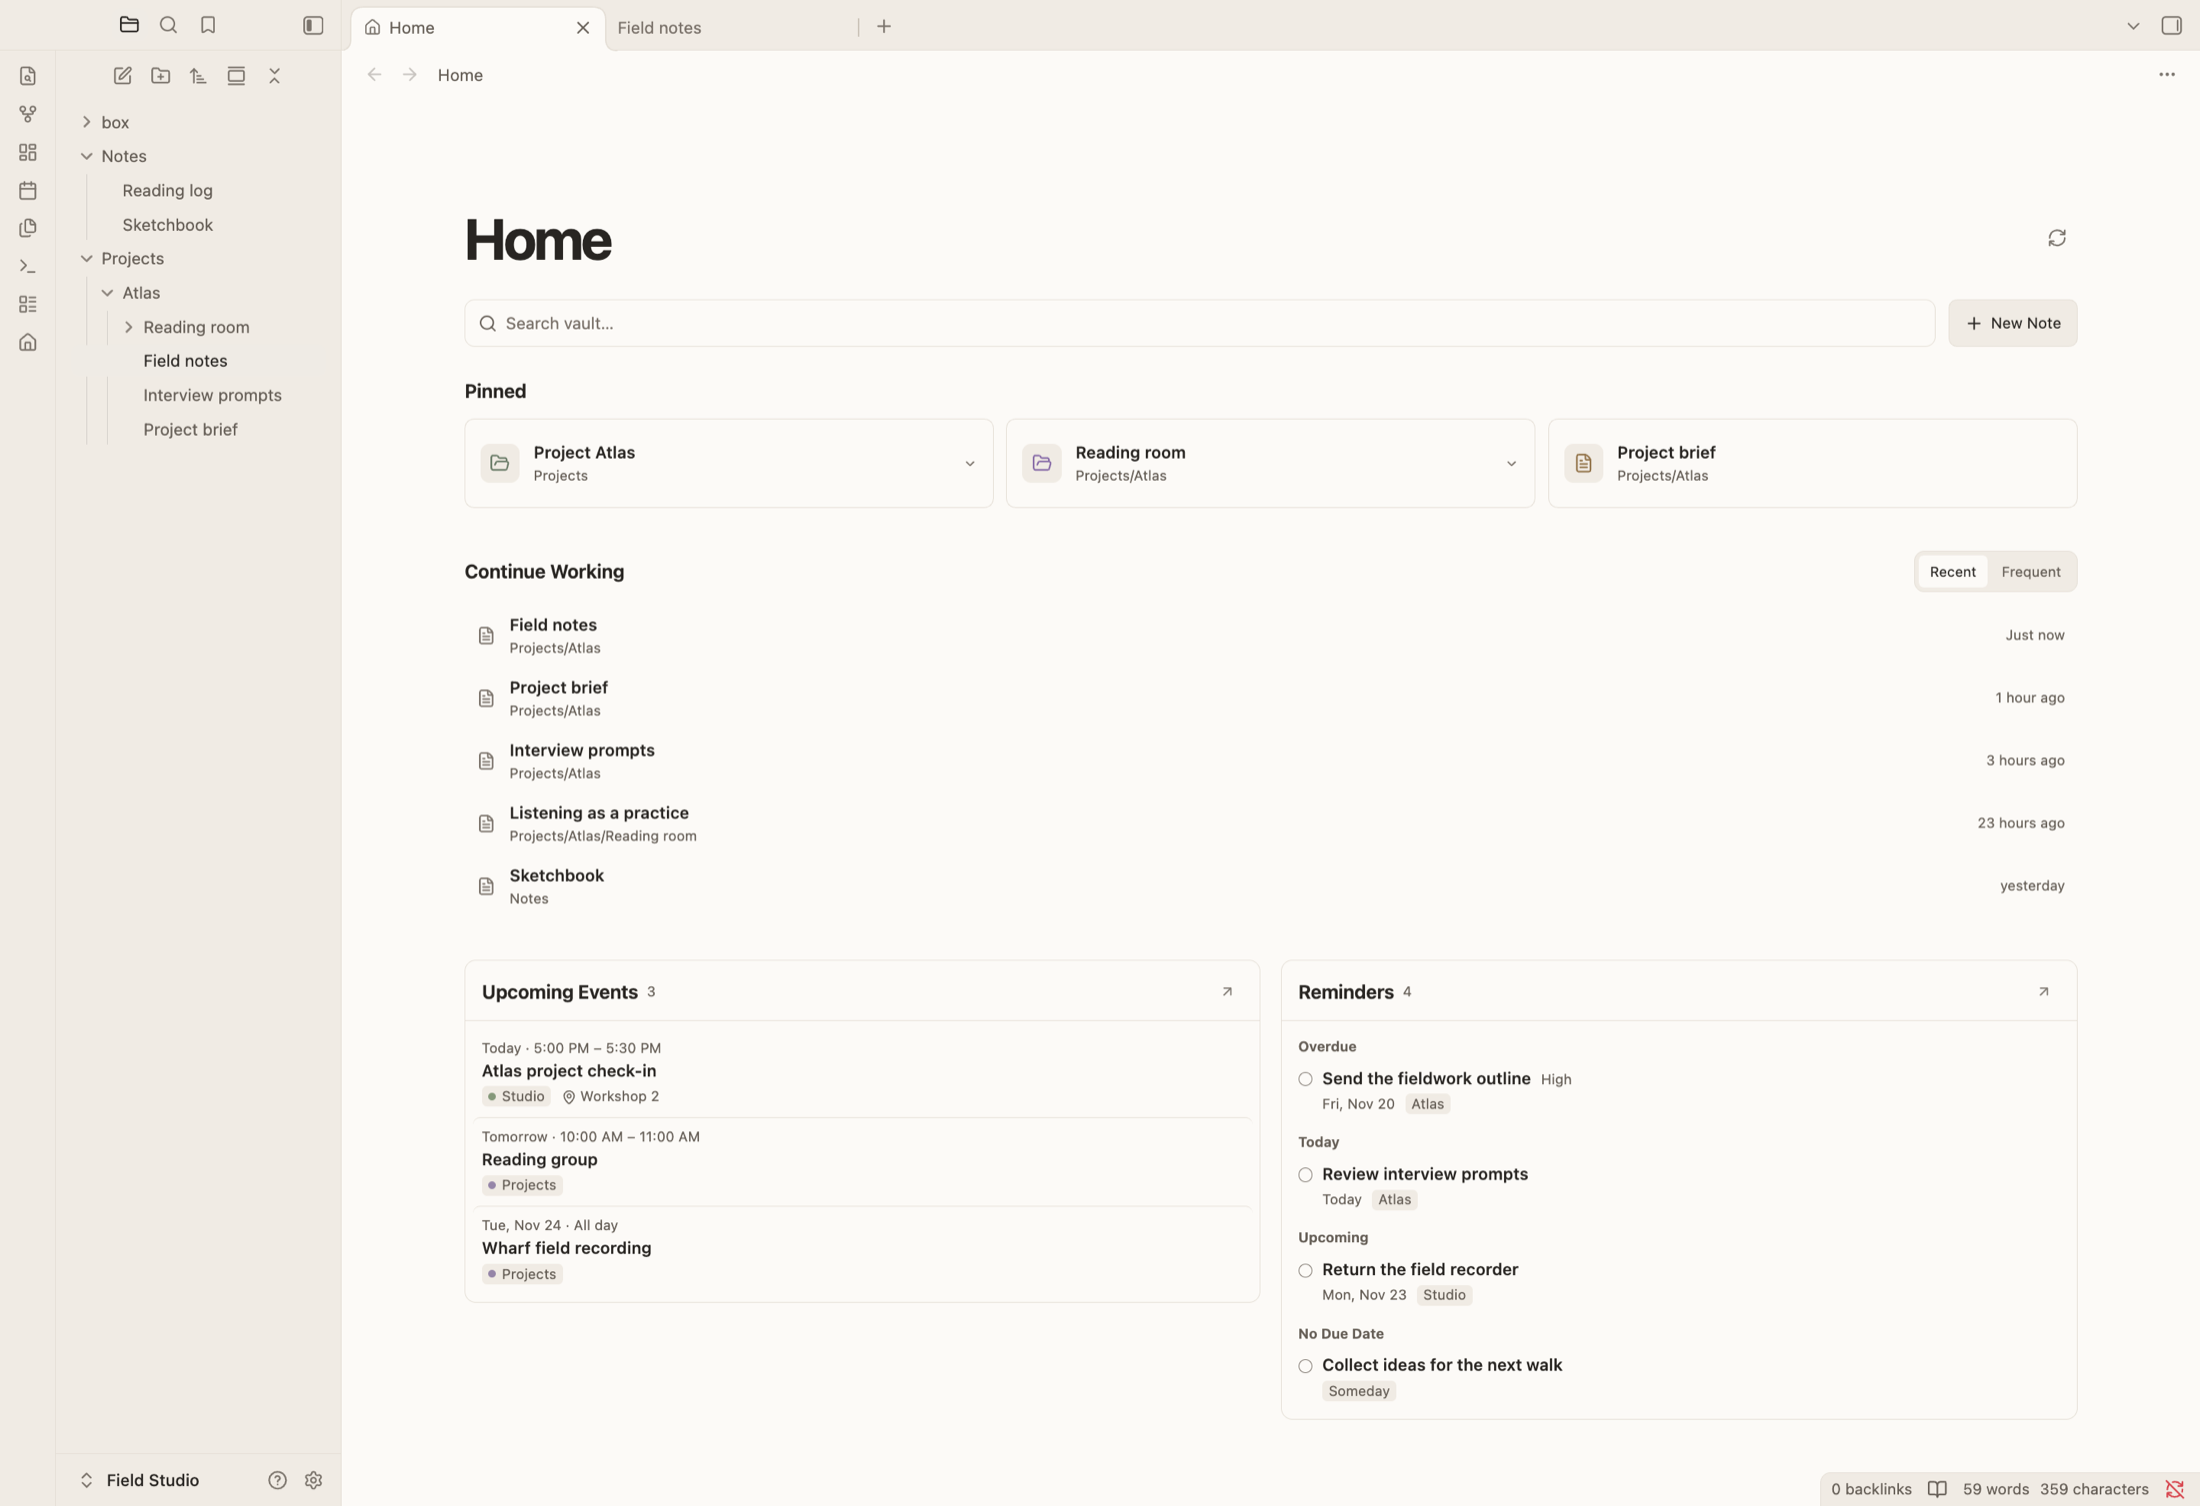
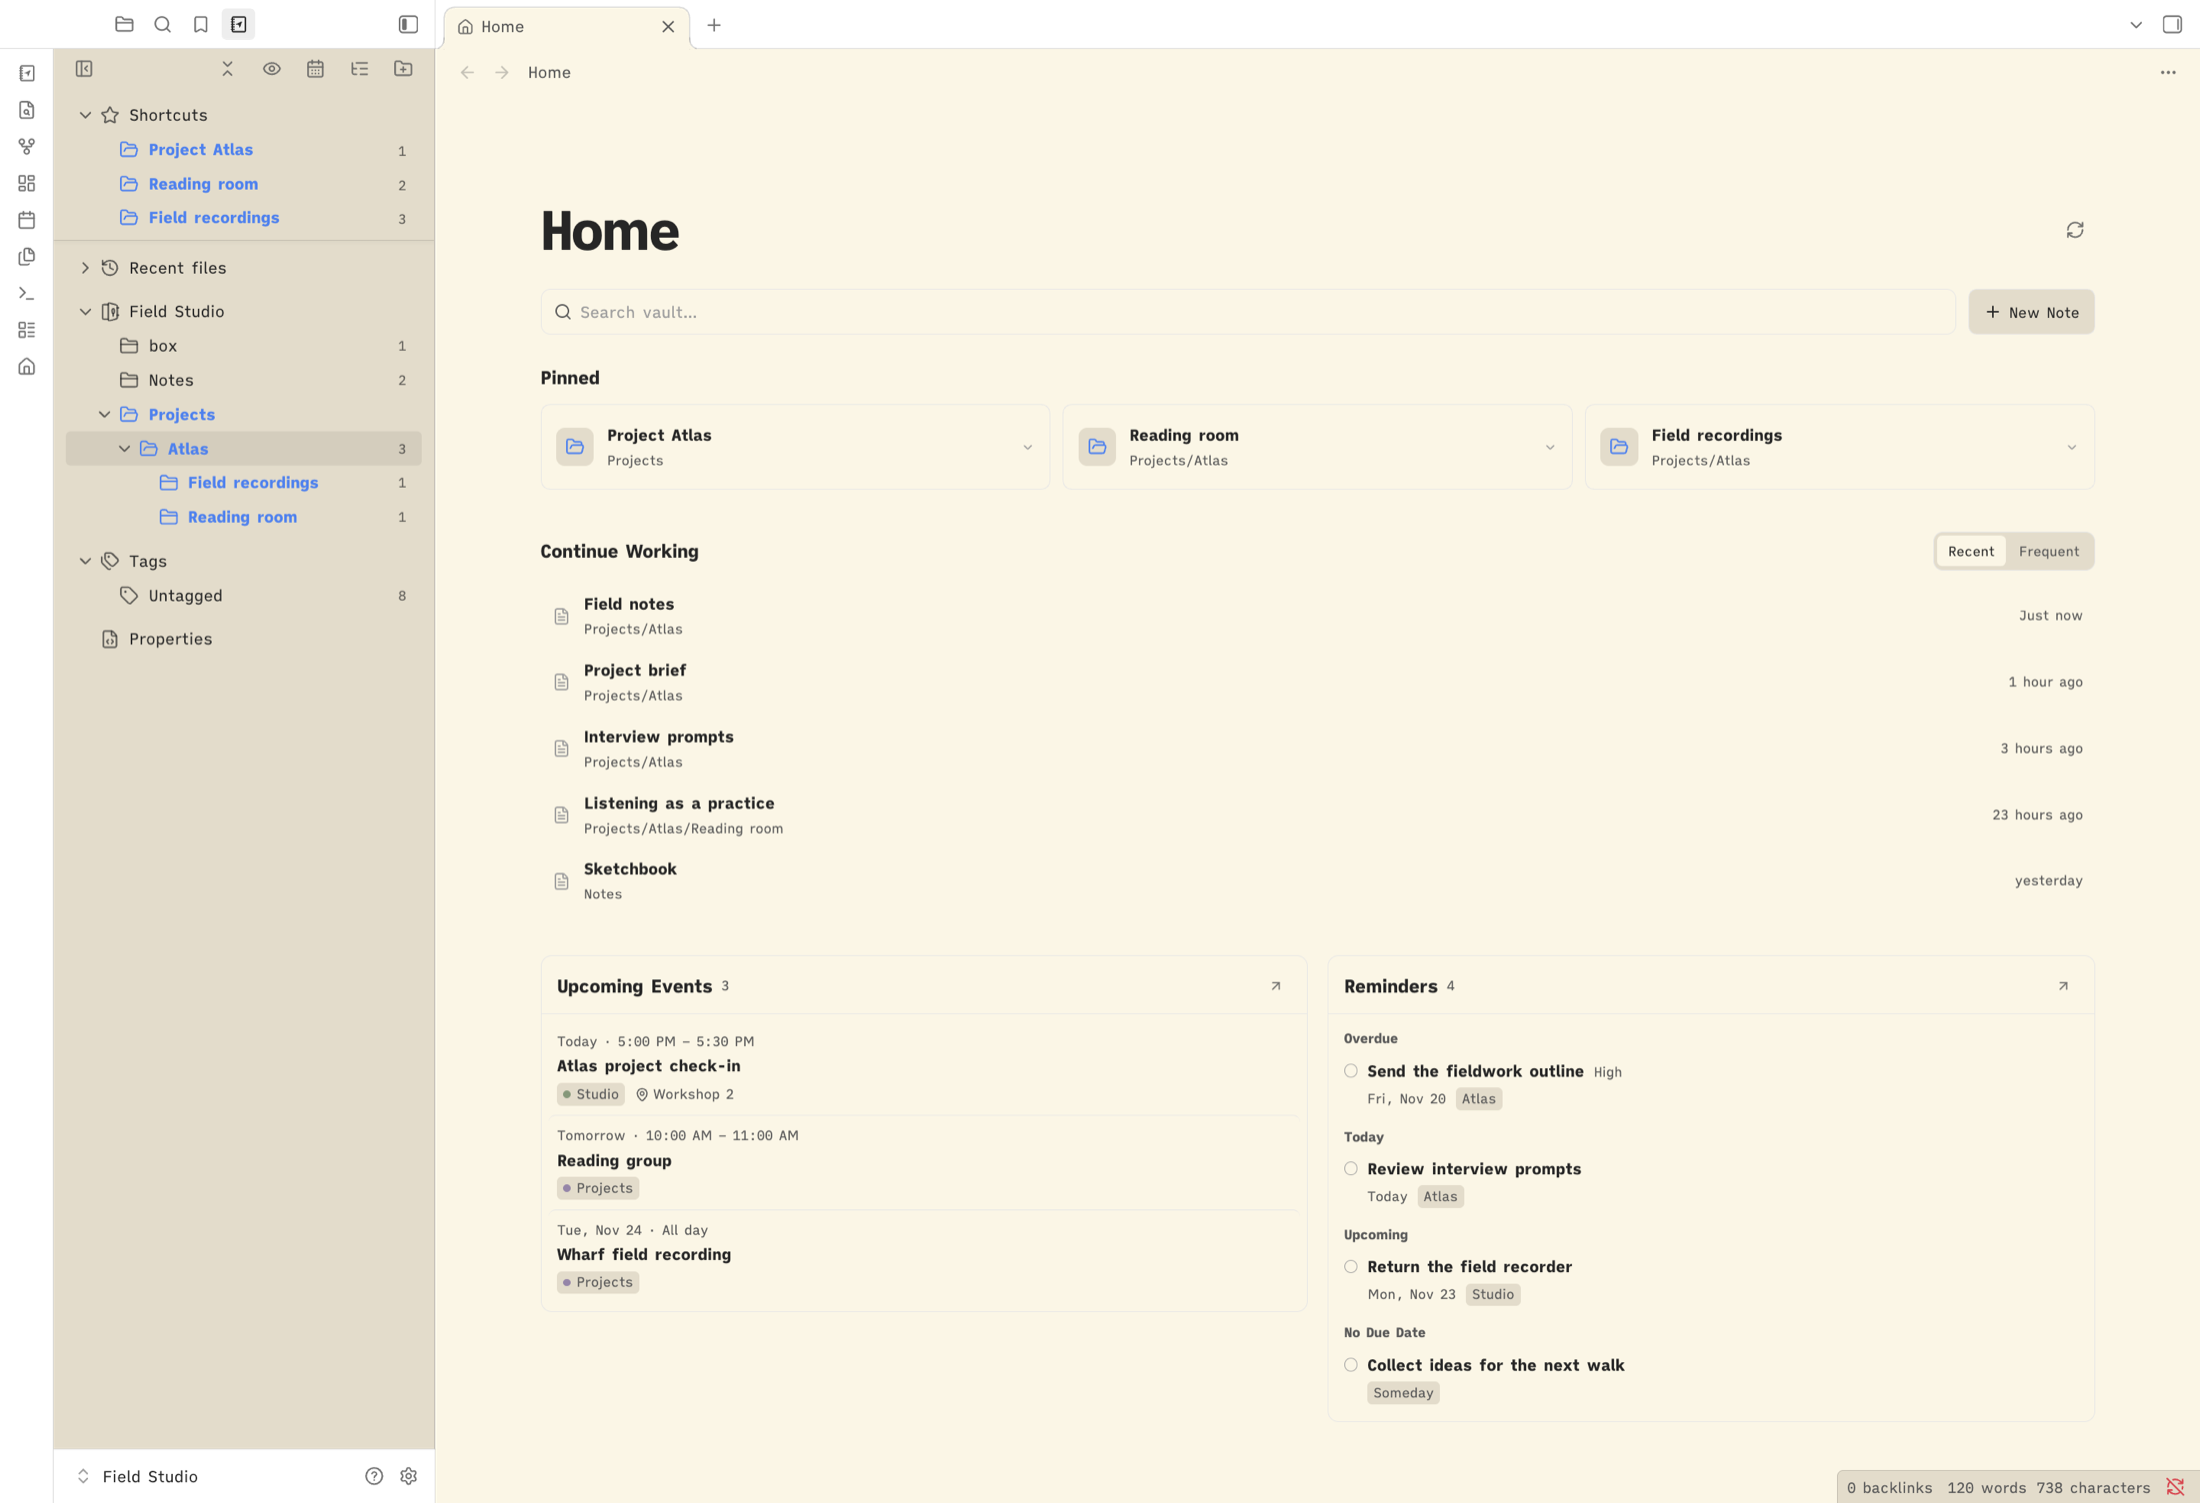
Show the Typewriter light and dark themes in the README

diff --git a/README.md b/README.md
@@ -19,16 +19,11 @@
 
 </div>
 
-![Obsidian’s desktop workspace showing the Home tab, folder sidebar, pinned Project Atlas notes, recent history, and Apple Calendar and Reminders](docs/images/homepage-preview.png)
+![Minimal Homepage in Typewriter light and dark, with Notebook Navigator, Apple panels, and a split note view](docs/images/homepage-themes.png)
 
-*Field Studio, an Obsidian demo vault with fictional notes, events, and reminders.*
+*Field Studio is a demo vault with fictional notes, events, and reminders. Shown with the [Typewriter theme](https://github.com/crashmoney/obsidian-typewriter).*
 
-<details>
-<summary>See Home next to an open note in dark mode</summary>
-
-![Dark-theme Obsidian with Home on the left and the Field notes reading pane on the right](docs/images/homepage-split-dark.png)
-
-</details>
+[Full light screenshot](docs/images/homepage-preview.png) · [Full dark screenshot](docs/images/homepage-split-dark.png)
 
 <table>
   <tr>

diff --git a/README.zh-CN.md b/README.zh-CN.md
@@ -19,16 +19,11 @@
 
 </div>
 
-![Obsidian 文件侧栏与 Home 标签页，首页显示 Atlas 项目收藏、最近访问、Apple 日历和提醒事项](docs/images/homepage-preview.png)
+![Typewriter 浅色与深色主题下的 Minimal Homepage，展示 Notebook Navigator、Apple 两栏及笔记分屏](docs/images/homepage-themes.png)
 
-*Field Studio 是用于演示的 Obsidian Vault，笔记、日程和提醒均为虚构。*
+*Field Studio 是演示 Vault，笔记、日程和提醒均为虚构。截图使用 [Typewriter 主题](https://github.com/crashmoney/obsidian-typewriter)。*
 
-<details>
-<summary>查看深色主题下的首页与笔记分屏</summary>
-
-![深色主题的 Obsidian，左侧是首页，右侧是 Field notes 的阅读视图](docs/images/homepage-split-dark.png)
-
-</details>
+[查看浅色原图](docs/images/homepage-preview.png) · [查看深色原图](docs/images/homepage-split-dark.png)
 
 <table>
   <tr>
